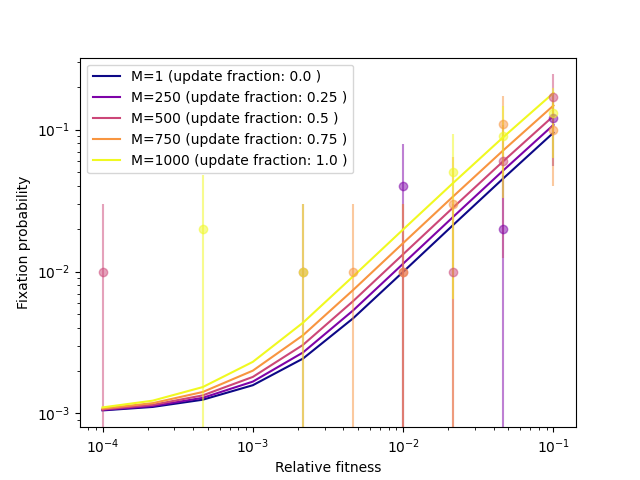
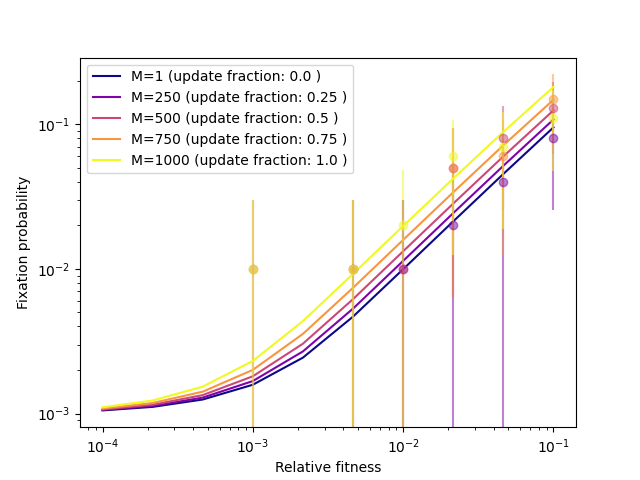
compiling with numba, not working for clique-graphe[...].py

diff --git a/well-mixed_phi-vs-s.py b/well-mixed_phi-vs-s.py
@@ -10,10 +10,12 @@ from tqdm import tqdm
 
 import json
 
+from numba import njit, jit
+
 
 # useful functions
 
-
+@jit(nopython=True)
 def simulate_trajectory(N, M, s, tmax, initial_state=1):
     states = np.zeros(tmax)
     states[0] = initial_state
@@ -42,6 +44,7 @@ def simulate_trajectory(N, M, s, tmax, initial_state=1):
     fixation = current_state == N
     return states, fixation
 
+@jit(parallel=True)
 def simulate_multiple_trajectories(N, M, s, tmax, nb_trajectories=100, initial_state=1):
     all_trajectories = np.zeros((int(nb_trajectories),int(tmax)))
     all_trajectories[:,0] = initial_state
@@ -51,8 +54,11 @@ def simulate_multiple_trajectories(N, M, s, tmax, nb_trajectories=100, initial_s
     count_fixation = 0
 
 
+    #for trajectory_index in tqdm(range(nb_trajectories)):
     for trajectory_index in tqdm(range(nb_trajectories)):
-        #print('trajectory:', trajectory_index)
+        if trajectory_index%(10**3) == 0:
+            #print('trajectory:', trajectory_index)
+            a= 1
         states, fixation = simulate_trajectory(N,M,s,tmax,initial_state)
 
         count_fixation += fixation
@@ -66,7 +72,7 @@ def simulate_multiple_trajectories(N, M, s, tmax, nb_trajectories=100, initial_s
     return all_trajectories, count_fixation, fixation_seq
 
 
-
+@njit
 def phi(N,s,rho,x):
     num = 1 - np.exp(-2*N*s*x / (2-rho))
     denom = 1 - np.exp(-2*N*s / (2-rho))
@@ -76,54 +82,65 @@ def phi(N,s,rho,x):
 
 
 # generating the graph
+@jit(parallel=True)
+def run(nb_trajectories):
 
-N = 1000
-s_range = np.logspace(-4, -1, num=10)
-tmax = 15000
-#nb_trajectories=10**7
-nb_trajectories = 100
-
-
-Ms = np.array([1, N//4, N//2, 3*N//4, N])
-rhos = Ms* 1. /N
-
-cmap = mpl.colormaps['plasma']
-colors = cmap(np.linspace(0, 1, len(Ms)))
-
-fig, ax = plt.subplots()
+    N = 1000
+    s_range = np.logspace(-4, -1, num=10)
+    tmax = 10000
+    
 
 
+    Ms = np.array([1, N//4, N//2, 3*N//4, N])
+    rhos = Ms* 1. /N
 
-for i,M in enumerate(Ms):
-    print('M:',M)
-    fixation_freqs = []
-    fixation_err = []
-    color = colors[i]
-    for s in s_range:
-        print('s:',s)
-        _, count_fixation, fixation_seq = simulate_multiple_trajectories(N,M,s,tmax, nb_trajectories)
-        fixation_freq = count_fixation / nb_trajectories
-        fixation_freqs.append(fixation_freq)
-        std = np.sqrt(fixation_freq * (1-fixation_freq) / nb_trajectories)
-        fixation_err.append(2* std)
-    ax.errorbar(s_range, fixation_freqs, yerr= fixation_err, fmt = 'o', alpha=0.5, color=color)
-    ax.plot(s_range, [phi(N,s,M/N,1/N) for s in s_range], label = f"M={M} (update fraction: {round(M/N,2)} )", color= color)
+    cmap = mpl.colormaps['plasma']
+    colors = cmap(np.linspace(0, 1, len(Ms)))
+
+    fig, ax = plt.subplots()
 
 
 
-ax.set_xscale("log")
-ax.set_yscale("log")
-ax.set_xlabel('Relative fitness')
-ax.set_ylabel('Fixation probability')
-ax.legend()
-plt.savefig(f'well-mixed_results/well-mixed_phi-vs-s_n-traj={nb_trajectories}.png')
+    for i,M in enumerate(Ms):
+        print('M:',M)
+        fixation_freqs = []
+        fixation_err = []
+        color = colors[i]
+        for s in s_range:
+            print('s:',s)
+            _, count_fixation, fixation_seq = simulate_multiple_trajectories(N,M,s,tmax, nb_trajectories)
+            fixation_freq = count_fixation / nb_trajectories
+            fixation_freqs.append(fixation_freq)
+            std = np.sqrt(fixation_freq * (1-fixation_freq) / nb_trajectories)
+            fixation_err.append(2* std)
+        ax.errorbar(s_range, fixation_freqs, yerr= fixation_err, fmt = 'o', alpha=0.5, color=color)
+        ax.plot(s_range, [phi(N,s,M/N,1/N) for s in s_range], label = f"M={M} (update fraction: {round(M/N,2)} )", color= color)
 
-simulation_parameters = {
-    'N':N,
-    'tmax':tmax,
-    'nb_trajectories':nb_trajectories,
-    's_range': (min(s_range),max(s_range))
-}
 
-with open(f'well-mixed_results/well-mixed_phi-vs-s_n-traj={nb_trajectories}_parameters.json', "w") as outfile:
-    json.dump(simulation_parameters, outfile, indent=4)
+
+    ax.set_xscale("log")
+    ax.set_yscale("log")
+    ax.set_xlabel('Relative fitness')
+    ax.set_ylabel('Fixation probability')
+    ax.legend()
+    plt.savefig(f'well-mixed_results/well-mixed_phi-vs-s_n-traj={nb_trajectories}.png')
+
+    simulation_parameters = {
+        'N':N,
+        'tmax':tmax,
+        'nb_trajectories':nb_trajectories,
+        's_range': (min(s_range),max(s_range))
+    }
+    return simulation_parameters
+
+    
+
+if __name__ == "__main__":
+
+    #nb_trajectories=10**7
+    nb_trajectories = 10**5
+
+    simulation_parameters = run(nb_trajectories)
+
+    with open(f'well-mixed_results/well-mixed_phi-vs-s_n-traj={nb_trajectories}_parameters.json', "w") as outfile:
+        json.dump(simulation_parameters, outfile, indent=4)

diff --git a/clique-graphe_phi-vs-s.py b/clique-graphe_phi-vs-s.py
@@ -11,10 +11,12 @@ from tqdm import tqdm
 
 import json
 
+from numba import njit, jit
+
 
 # useful functions
 
-
+@jit
 def simulate_clique(N, M, nb_colonies, migration_rate, s, tmax):
     assert 1 - (nb_colonies-1)*migration_rate >= 0
 
@@ -81,6 +83,10 @@ def simulate_clique(N, M, nb_colonies, migration_rate, s, tmax):
 
     return trajectories, fixation
 
+
+
+
+@jit
 def simulate_multiple_trajectories_clique(N, M, nb_colonies, migration_rate, s, tmax, nb_trajectories=100):
     all_trajectories = np.zeros((int(nb_trajectories),int(tmax)))
 
@@ -104,22 +110,21 @@ def simulate_multiple_trajectories_clique(N, M, nb_colonies, migration_rate, s, 
     return all_trajectories, count_fixation, fixation_seq
 
 
-
+@jit
 def phi(N,s,rho,x):
     num = 1 - np.exp(-2*N*s*x / (2-rho))
     denom = 1 - np.exp(-2*N*s / (2-rho))
     return num/denom
 
 
-if __name__ == "__main__":
+# generating the graph
 
-    # generating the graph
-
+@jit
+def run(nb_trajectories):
     N = 10
     s_range = np.logspace(-4, -1, num=10)
     tmax = 50000
-    #nb_trajectories=10**7
-    nb_trajectories = 50
+    
     nb_colonies = 3
     migration_rate = 0.1
 
@@ -171,6 +176,15 @@ if __name__ == "__main__":
         'nb_trajectories':nb_trajectories,
         's_range':(min(s_range), max(s_range))
     }
+    return simulation_parameters
+
+
+if __name__ == "__main__":
+    #nb_trajectories=10**7
+    nb_trajectories = 100
+
+    simulation_parameters = run(nb_trajectories)
+
 
     with open(f'clique_results/clique-graphe_phi-vs-s_n-traj={nb_trajectories}_parameters.json', "w") as outfile:
         json.dump(simulation_parameters, outfile, indent=4)
